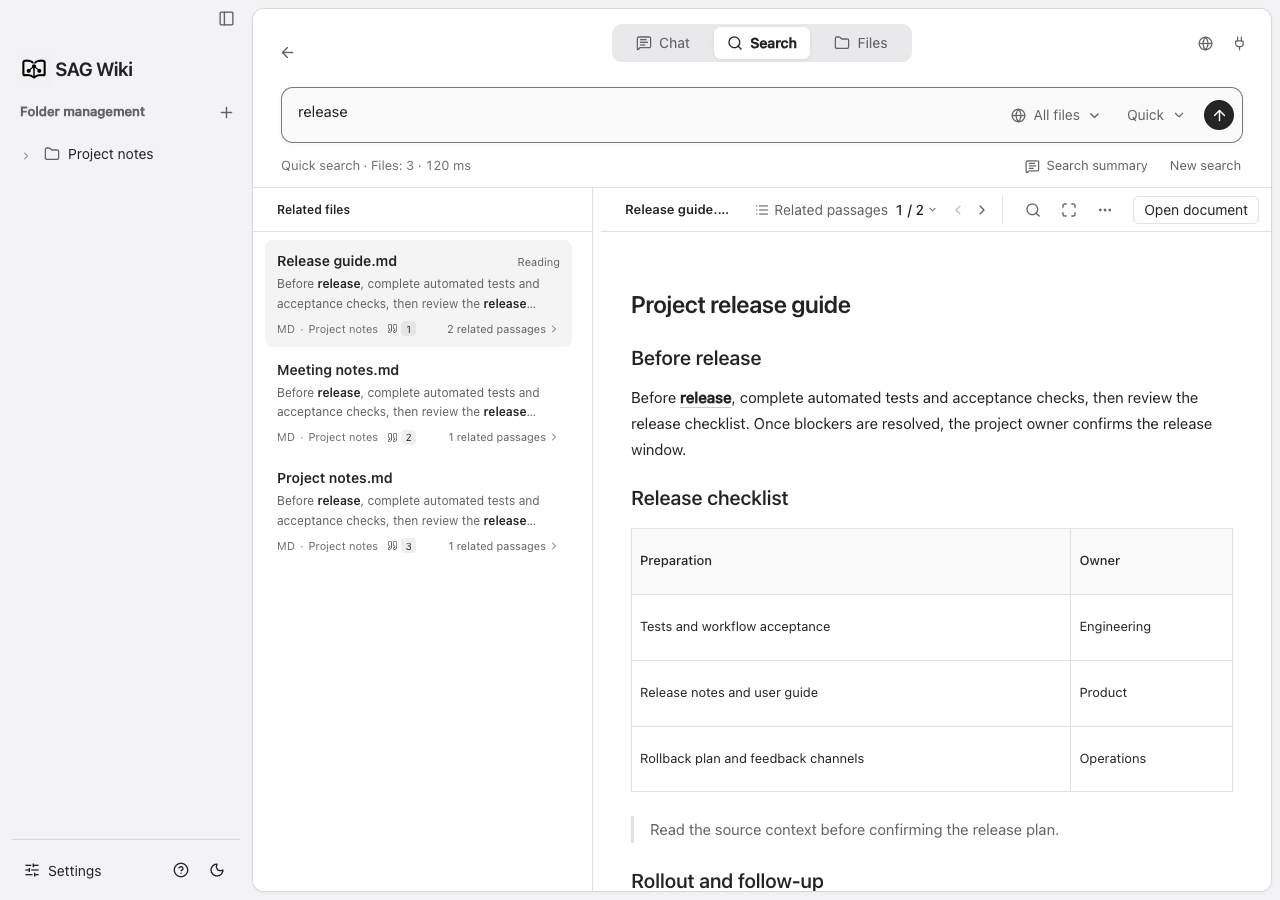
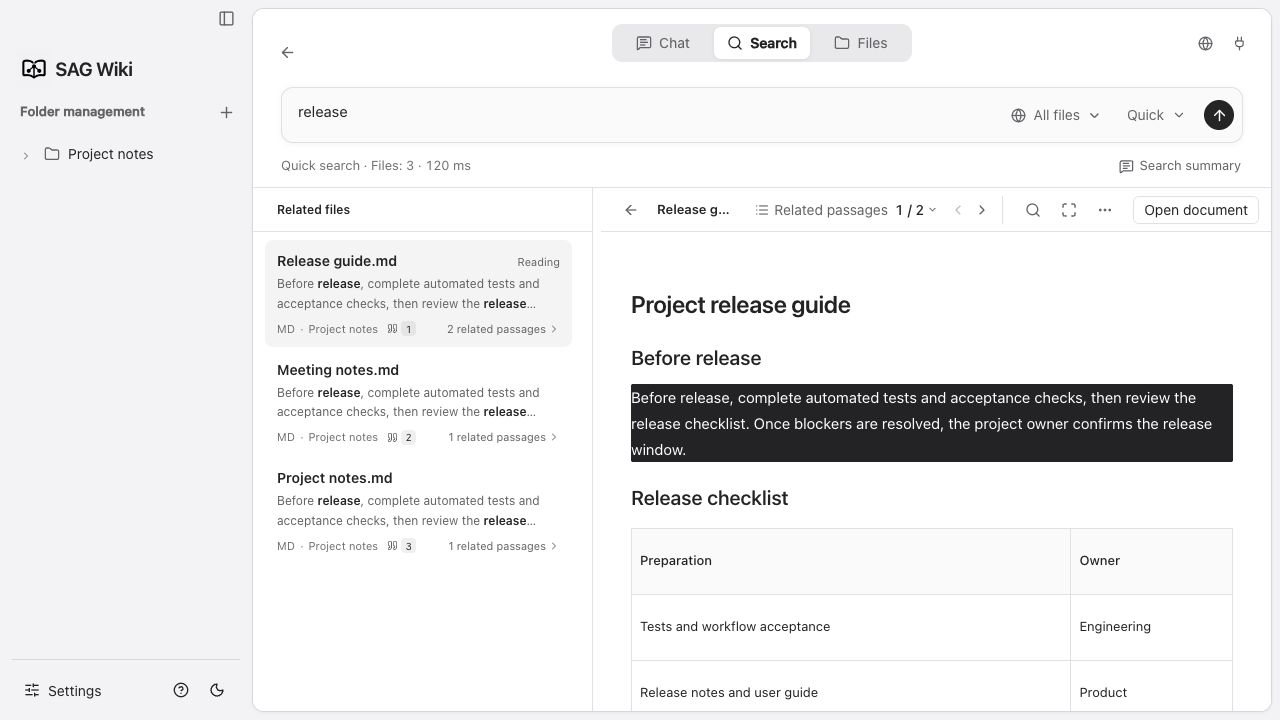
Improve search summaries, highlights and periodic update checks
(cherry picked from commit cfd964785a4ece03ea74da3f2a4949b443de70a7)

diff --git a/src/App.svelte b/src/App.svelte
@@ -368,6 +368,7 @@ let previewDocument:Document|null=null,previewInitialMatch=0,previewLoading=fals
  async function stopSummary(){const id=summaryJob;summaryJob='';summaryBusy=false;if(id)await api('cancel_query',{id});}
  async function summarizeSearch(question:string,candidates:Candidate[]){
   if(settings?.search_summary_enabled===false||!candidates.length||!answerReady)return;
+  summarySelected=true;lastSearchFocus=candidates[0];
   const id=crypto.randomUUID();summaryJob=id;summaryBusy=true;summaryError='';summaryText='';summaryEvidence=documentResults(candidates).slice(0,settings?.search_summary_sources??10).map(group=>group.first);
   try{const output=await api<{text:string;evidence:Candidate[]}>('summarize_search',{id,question,results:summaryEvidence});if(summaryJob===id){summaryText=output.text;summaryEvidence=output.evidence}}
   catch(e){if(summaryJob===id)summaryError=$t(String(e))}
@@ -454,7 +455,7 @@ let previewDocument:Document|null=null,previewInitialMatch=0,previewLoading=fals
    const output=await api<QueryOutput>('run_query',{query:{id,kind,question,scope,references:kind==='ask'?references:[],model:settings.answer.model,conversation_id:kind==='ask'?conversationId:null,replace_from:replaceFrom??null,page:kind==='search'?(page??1):null}});
    if((kind==='ask'?askJob:searchJob)!==id)return;
    if(kind==='ask'){conversation=output.conversation;pending=null;references=[];await history()}
-   else{searchTerms=output.terms||[];results=output.results;searchRanked=kind==='deep_search';searchElapsed=output.elapsed_ms??null;searchPagination=kind==='deep_search'?{total:documentResults(output.results).length,page:1,page_size:20}:output.pagination??null;searchPage=searchPagination?.page??1;await tick();if(searchList)searchList.scrollTop=0;if(page===undefined){activeResult=0;passagesOpen=false}const kept=results.find(c=>c.path===focus?.path);if(kept)void focusResult(kept,true);else if(results.length)void focusResult(results[0]);else{focus=null;previewRequest++}if(page===undefined)void summarizeSearch(question,output.results);}
+   else{searchTerms=output.terms||[];results=output.results;searchRanked=kind==='deep_search';searchElapsed=output.elapsed_ms??null;searchPagination=kind==='deep_search'?{total:documentResults(output.results).length,page:1,page_size:20}:output.pagination??null;searchPage=searchPagination?.page??1;await tick();if(searchList)searchList.scrollTop=0;if(page===undefined){activeResult=0;passagesOpen=false;void summarizeSearch(question,output.results)}if(page!==undefined||!summarySelected){const kept=results.find(c=>c.path===focus?.path);if(kept)void focusResult(kept,true);else if(results.length)void focusResult(results[0]);else{focus=null;previewRequest++}}}
   }catch(e){
    if((kind==='ask'?askJob:searchJob)===id){
     if(kind==='ask'){error=$t(String(e));if(pending)pending={...pending,status:'failed',error};await history()}
@@ -465,7 +466,7 @@ let previewDocument:Document|null=null,previewInitialMatch=0,previewLoading=fals
    else if(searchJob===id){searchBusy=false;paging=false;searchPage=searchPagination?.page??1;searchStage='';searchJob=''}
   }
  }
-// Search results prioritize source reading; the summary is an explicit secondary view.
+// New searches open the automatic summary; selecting a result opens its source.
  let activeResult=0,resultsFocused=false,passagesOpen=false,passageReturn:HTMLElement|null=null;
  let searchFocusMode=false,summarySelected=false,lastSearchFocus:Candidate|null=null;
  let previewFindOpen=false,previewFindDraft='',previewFindTerm='',previewFindInput:HTMLInputElement;
@@ -606,7 +607,7 @@ let previewDocument:Document|null=null,previewInitialMatch=0,previewLoading=fals
  <div class="composer-wrap"><Popover.Root bind:open={mention}><Popover.Portal to=".real-client"><Popover.Content class="mention-picker" customAnchor={composer} collisionBoundary={workspaceContent} side={mentionSide} sideOffset={6} collisionPadding={8} align="start" trapFocus={false} onOpenAutoFocus={event=>event.preventDefault()} onCloseAutoFocus={event=>event.preventDefault()}><div class="mention-heading">{$t("@ 引用文件")}</div>{#if !files.length}<div class="mention-empty" aria-live="polite">{@html icon('folder')}<strong>{$t('知识库还没有可引用的文件')}</strong><p>{$t('添加文件夹并完成索引后，就可以用 @ 选择要引用的文件。')}</p><Button.Root type="button" class="outline mention-add-folder" onclick={()=>{mention=false;add()}}>{@html icon('plus')}{$t('添加文件夹')}</Button.Root></div>{:else if !mentions.length}<div class="mention-empty" aria-live="polite">{@html icon('search')}<strong>{$t('没有匹配的文件')}</strong><p>{$t('试试其他文件名或路径关键词。')}</p></div>{:else}<div class="mention-options" role="listbox" aria-label={$t("引用文件")}>{#each mentions as f,i}<Button.Root role="option" aria-selected={i===mentionIndex} onmousedown={(event:MouseEvent)=>{event.preventDefault();(()=>reference(f.path))();}}>{@html icon('file')}<span><strong>{f.name}</strong><small>{displayPath(f.path)}</small></span></Button.Root>{/each}</div><div class="mention-help">{$t("↑ ↓ 选择 · Enter 引用 · Esc 关闭")}</div>{/if}</Popover.Content></Popover.Portal></Popover.Root><form class="composer" class:busy bind:this={composer} use:mentionPlacement on:submit|preventDefault={()=>run('ask')}><div class="reference-chips">{#each references as path}<span class="reference-chip">{@html icon('file')}<span>{basename(path)}</span><Button.Root type="button" aria-label={$t("移除引用 {value0}",{value0:basename(path)})} onclick={()=>references=references.filter(p=>p!==path)}>{@html icon('close')}</Button.Root></span>{/each}</div><Textarea aria-label={$t("向你的文件提问")} bind:ref={askInput} bind:value={ask} oninput={mentionUpdate} onkeydown={askKey} onkeyup={compositionKeyUp} oncompositionstart={compositionStart} oncompositionend={compositionEnd} placeholder={busy?$t("回答生成中，可以先输入下一个问题…"):$t("向你的文件提问，输入 @ 引用文件…")}/><div class="composer-bottom"><div class="composer-options"><Button.Root class="scope-button" type="button" aria-haspopup="dialog" aria-expanded={scopeOpen} onclick={scopeShow}>{@html icon(scope.length?'folder':'globe')}<span>{scopeLabel}</span>{@html icon('down')}</Button.Root></div><div class="composer-model-controls">{#if settings}<ContextUsage context={busy?pending?.context:conversation?.messages.at(-1)?.context} limit={settings.answer_context_tokens??65536} loading={busy&&!pending?.context}/><ReasoningControl model={settings.answer.model} models={settings.answer.models} onModelChange={model=>{if(settings)settings={...settings,answer:{...settings.answer,model}}}} endpoint={settings.answer.url} value={settings.model_profiles?.[settings.answer.model]?.reasoning_effort} disabled={busy} onChange={setReasoning} onCommit={saveReasoning}/>{/if}{#if busy}<Button.Root type="button" class="send" aria-label={$t("停止生成")} onclick={()=>stop()}>{@html icon('stop')}</Button.Root>{:else}<Button.Root class="send" aria-label={$t("发送问题")} disabled={!ask.trim()}>{@html icon('arrow')}</Button.Root>{/if}</div></div></form></div>{#if !shownMessages.length&&!pending&&conversations.length}<section class="recent-conversations" aria-label={$t("会话列表")}><div class="recent-heading"><span>{$t("会话列表")}</span><Button.Root class="icon-button" title={$t("搜索会话")} aria-label={$t("搜索会话")} onclick={()=>historySearchOpen=true}>{@html icon('search')}</Button.Root></div><div class="recent-list">{#each conversations as c(c.id)}<div class="history-row" class:active={view==='ask'&&conversation?.id===c.id}><Button.Root class="conversation-item" title={c.title} onclick={()=>chooseHistory(c)}>{@html icon('chat')}<span>{c.title}</span></Button.Root><Timestamp value={c.updated}/><Button.Root class="history-more" aria-label={$t("{value0} 的选项",{value0:c.title})} onclick={(e:MouseEvent)=>chatMenu(e,c)}>{@html icon('more')}</Button.Root></div>{:else}<p class="history-empty">{$t("还没有问答记录")}</p>{/each}</div></section>{/if}</section></div>
  {:else if view==='search'}<section class="search-page" class:has-results={searched} aria-busy={busy}>{#if !searched}<div class="welcome search-welcome"><div class="welcome-mark" aria-hidden="true">{@html icon('search')}</div><h1>{$t("搜索你的文件")}</h1><p>{$t("查找文件内容，随时查看原文。")}</p></div>{/if}<div class="search-query-row"><form class="search-composer" class:compact={searched} on:submit|preventDefault={()=>run(searchMode)}><div class="search-entry"><Input aria-label={$t("搜索关键词")} bind:ref={searchInput} bind:value={search} onkeydown={searchKey} onkeyup={compositionKeyUp} oncompositionstart={compositionStart} oncompositionend={compositionEnd} placeholder={$t("输入关键词或问题，搜索你的文件…")}/></div><div class="search-composer-bottom"><Button.Root class="scope-button" type="button" aria-haspopup="dialog" aria-expanded={scopeOpen} onclick={scopeShow}>{@html icon(scope.length?'folder':'globe')}<span>{scopeLabel}</span>{@html icon('down')}</Button.Root><div class="search-composer-actions"><Select class="search-mode" label={$t("搜索模式")} value={searchMode} onValueChange={changeSearchMode} disabled={busy} items={[{value:"deep_search",label:jevReady?$t("深入"):$t("深入（需配置 Jev）")},{value:"search",label:$t("快速")}]}/>{#if busy}<Button.Root type="button" class="send" aria-label={$t("停止搜索")} onclick={()=>stop()}>{@html icon('stop')}</Button.Root>{:else}<Button.Root class="send" aria-label={$t("搜索文件")} disabled={!search.trim()}>{@html icon('arrow')}</Button.Root>{/if}</div></div></form></div>
  {#if !searched&&searchHistory.length}<section class="search-history" aria-label={$t("最近搜索")}><div class="search-history-heading"><span>{$t("最近搜索")}</span><Button.Root class="icon-button" aria-label={$t("清空搜索历史")} title={$t("清空搜索历史")} onclick={clearSearchHistory}>{@html icon('delete')}</Button.Root></div><div class="search-history-items">{#each searchHistory as question}<Button.Root class="search-history-item" title={question} onclick={()=>{search=question;void run(searchMode)}}>{@html icon('search')}<span>{question}</span></Button.Root>{/each}</div></section>{/if}{#if searched}
- <div class="search-options-row"><div class="search-summary"><span aria-live="polite">{searchStopped?$t("已停止搜索 · "):''}{busy&&!paging?$t(searchJobKind==='deep_search'?"深入搜索中":"快速搜索中"):`${searchRanked?$t("深入搜索"):$t("快速搜索")} · ${$t("{value0} 个文件",{value0:searchPagination?.total??groups.length})}`}{#if searchElapsed!==null&&!(busy&&!paging)}{' · '}{searchElapsed<1000?`${searchElapsed} ms`:$t("{value0} 秒",{value0:(searchElapsed/1000).toFixed(1)})}{/if}</span></div><div class="search-options-actions">{#if showSummary}<Button.Root class="search-summary-toggle" aria-label={$t('搜索总结')} aria-pressed={summarySelected} onclick={toggleSearchSummary}>{@html icon('chat')}<span>{$t('搜索总结')}</span>{#if summaryBusy}<span class="summary-running" aria-hidden="true"></span>{/if}</Button.Root>{/if}<Button.Root class="search-new-query" onclick={()=>resetSearch().catch(e=>notify($t(String(e))))}>{$t('重新搜索')}</Button.Root></div></div>
+ <div class="search-options-row"><div class="search-summary"><span aria-live="polite">{searchStopped?$t("已停止搜索 · "):''}{busy&&!paging?$t(searchJobKind==='deep_search'?"深入搜索中":"快速搜索中"):`${searchRanked?$t("深入搜索"):$t("快速搜索")} · ${$t("{value0} 个文件",{value0:searchPagination?.total??groups.length})}`}{#if searchElapsed!==null&&!(busy&&!paging)}{' · '}{searchElapsed<1000?`${searchElapsed} ms`:$t("{value0} 秒",{value0:(searchElapsed/1000).toFixed(1)})}{/if}</span></div><div class="search-options-actions">{#if showSummary}<Button.Root class="search-summary-toggle" aria-label={$t('搜索总结')} aria-pressed={summarySelected} onclick={toggleSearchSummary}>{@html icon('chat')}<span>{$t('搜索总结')}</span>{#if summaryBusy}<span class="summary-running" aria-hidden="true"></span>{/if}</Button.Root>{/if}</div></div>
  {#if searchError}<p class="form-error" role="alert">{$t(searchError)}{#if searchError===$t("请在设置中填写 Jev API 密钥")}<Button.Root class="settings-error-link" onclick={()=>{settingsPage="jev";settingsOpen=true}}>{$t("前往设置")}</Button.Root>{/if}</p>{/if}{#if busy&&!paging}
  <div class="search-loading" role="status" aria-live="polite" aria-atomic="true"><div class="search-skeleton" aria-hidden="true">{#each [0,1,2,3] as row}<span style={`--row:${row}`}></span>{/each}</div><strong>{searchStageText}</strong></div>
  {:else if groups.length}
@@ -620,7 +621,7 @@ let previewDocument:Document|null=null,previewInitialMatch=0,previewLoading=fals
   <article class="search-preview" class:showing-summary={!focus} class:search-finding={previewFindOpen}>
    {#if focus}
     <div class="search-preview-head">
-     <Button.Root class="icon-button search-preview-back list-only" aria-label={$t("返回结果列表")} onclick={leaveSearchReader}>{@html icon('back')}</Button.Root>
+     <Button.Root class={`icon-button search-preview-back${showSummary?'':' list-only'}`} aria-label={$t(showSummary?"返回搜索总结":"返回结果列表")} title={$t(showSummary?"返回搜索总结":"返回结果列表")} onclick={showSummary?toggleSearchSummary:leaveSearchReader}>{@html icon('back')}</Button.Root>
      <div class="search-preview-title"><strong title={sourceName(focus)}>{sourceName(focus)}</strong><span class="source-path" title={displayPath(indexedSourcePath(focus.path))}>{sourceFolder(focus.path,roots)}</span></div>
      <div class="search-preview-actions">
       <div class="search-passage-nav" role="group" aria-label={$t('相关片段')}>
@@ -638,7 +639,7 @@ let previewDocument:Document|null=null,previewInitialMatch=0,previewLoading=fals
     {#if previewError}<p class="small muted search-preview-note" role="status">{previewError}</p>{/if}
     {#if previewLoading}<div class="search-preview-loading" role="status"><span class="search-skeleton" aria-hidden="true">{#each [0,1,2] as row}<span style={`--row:${row}`}></span>{/each}</span><span class="sr-only">{$t("正在读取文件…")}</span></div>{:else if previewDocument}
      {#key `${previewRequest}:${previewFindTerm}`}
-      {#if isHtml(focus.path)}<HtmlDocument body={previewDocument.body} terms={readerTerms} initialMatch={previewFindTerm?0:previewInitialMatch} showNavigation={previewFindOpen} memoryKey={readerMemoryKey} restoreScroll={restorePreview}/>
+      {#if isHtml(focus.path)}<HtmlDocument paragraphHighlight body={previewDocument.body} terms={readerTerms} initialMatch={previewFindTerm?0:previewInitialMatch} showNavigation={previewFindOpen} memoryKey={readerMemoryKey} restoreScroll={restorePreview}/>
       {:else if previewReader?.doc===previewDocument}<svelte:component this={previewReader.Reader} model={previewReader.model} terms={readerTerms} target={previewFindTerm?0:previewReader.target} path={displayPath(focus.path)} showNavigation={previewFindOpen} memoryKey={readerMemoryKey} restoreScroll={restorePreview}/>
       {:else}<HighlightedDocument html={preview} terms={readerTerms} path={displayPath(focus.path)} initialMatch={previewFindTerm?0:previewInitialMatch} showNavigation={previewFindOpen} memoryKey={readerMemoryKey} restoreScroll={restorePreview}/>{/if}
      {/key}

diff --git a/src/styles/search.css b/src/styles/search.css
@@ -10,14 +10,14 @@
 .real-client .search-composer.compact .search-entry input{padding:6px 0;font-size:var(--text-reading)}
 .real-client .search-composer.compact .search-composer-bottom{flex-shrink:0;gap:10px}
 .real-client .search-composer.compact .send{width:30px;height:30px}
-/* Status on the left, the two page-level actions on the right: one line between the input and the columns. */
+/* Status on the left, the summary action on the right: one line between the input and the columns. */
 .search-options-row{display:flex;align-items:center;justify-content:space-between;gap:16px;flex-shrink:0;min-height:44px;margin:0}
 .has-results .search-options-row{padding:4px 20px 2px 28px}
 .real-client .search-summary{display:flex;align-items:center;min-width:0;margin:0;padding:0;border:0;color:var(--color-muted);font-size:var(--text-caption);font-variant-numeric:tabular-nums}
 .search-summary span{overflow:hidden;white-space:nowrap;text-overflow:ellipsis}
 .search-options-actions{display:flex;align-items:center;gap:2px;flex-shrink:0}
-.real-client .search-summary-toggle,.real-client .search-new-query{display:inline-flex;align-items:center;gap:6px;height:30px;min-height:30px;padding:0 10px;border-radius:7px;background:transparent;color:var(--color-secondary);font-size:var(--text-caption);white-space:nowrap}
-.real-client .search-summary-toggle:hover,.real-client .search-new-query:hover{background:var(--color-hover);color:var(--color-ink)}
+.real-client .search-summary-toggle{display:inline-flex;align-items:center;gap:6px;height:30px;min-height:30px;padding:0 10px;border-radius:7px;background:transparent;color:var(--color-secondary);font-size:var(--text-caption);white-space:nowrap}
+.real-client .search-summary-toggle:hover{background:var(--color-hover);color:var(--color-ink)}
 .search-summary-toggle .icon{width:15px;height:15px}
 .real-client .search-summary-toggle[aria-pressed=true]{background:var(--color-selected);color:var(--color-ink)}
 .summary-running{width:5px;height:5px;border-radius:50%;background:var(--color-secondary);animation:summary-pulse 1.2s ease-in-out infinite}
@@ -68,9 +68,10 @@
 .real-client .search-preview .search-preview-body img{max-width:100%;height:auto}
 .real-client .search-results .search-hit{background:transparent;color:var(--color-ink);font-weight:600;box-shadow:none;padding:0}
 .real-client .search-preview .search-hit{background:transparent;color:inherit;box-shadow:none;border-radius:2px;padding:0}
-.real-client .search-preview .search-hit.active{font-weight:550;text-decoration:underline;text-decoration-color:color-mix(in srgb,var(--color-ink) 24%,transparent);text-underline-offset:4px}
 .real-client .search-preview.search-finding .search-hit{background:color-mix(in srgb,var(--color-ink) 8%,transparent);box-decoration-break:clone;-webkit-box-decoration-break:clone}
-.real-client .search-preview.search-finding .search-hit.active{background:color-mix(in srgb,var(--color-ink) 16%,transparent)}
+.real-client .search-preview .search-active-paragraph{background:var(--color-ink);color:var(--color-paper);border-radius:2px}
+.real-client .search-preview .search-active-paragraph *{color:inherit}
+.real-client .search-preview .search-active-paragraph :is(.search-hit,code){background:transparent;color:inherit;box-shadow:none;text-decoration:none}
 /* The passage picker drops down from its control in the header. */
 .search-preview>.search-passage-picker{top:48px;right:12px;width:min(460px,calc(100% - 24px));max-height:min(520px,calc(100% - 64px))}
 .search-summary-back{display:flex;align-items:center;gap:10px;height:44px;padding:0 16px;border-bottom:1px solid var(--color-rule);font-size:13px}

diff --git a/tests/app-updates.test.ts b/tests/app-updates.test.ts
@@ -19,7 +19,7 @@ const click=(text:string)=>{
  expect(button, text).toBeDefined();button!.click();
 };
 beforeEach(()=>{setLanguage('zh-CN');updateDownload.set({key:'',version:'',stage:'idle',downloaded:0,total:null,error:''});updateState.set({key:'',checking:false,info:null,error:''});invoke.mockReset();invoke.mockResolvedValue(latest)});
-afterEach(async()=>{for(const app of apps.splice(0))await unmount(app);document.body.innerHTML=''});
+afterEach(async()=>{for(const app of apps.splice(0))await unmount(app);vi.useRealTimers();document.body.innerHTML=''});
 
 it('checks at startup, shows a new-version prompt and opens About on click',async()=>{
  const onOpen=vi.fn();
@@ -29,6 +29,35 @@ it('checks at startup, shows a new-version prompt and opens About on click',asyn
  document.querySelector<HTMLButtonElement>('.update-open')!.click();await tick();
  expect(onOpen).toHaveBeenCalledOnce();
  expect(document.querySelector('.update-notification')).toBeNull();
+});
+
+it('checks every eight hours while mounted and stops checking after unmount',async()=>{
+ vi.useFakeTimers({toFake:['setInterval','clearInterval']});
+ const interval=8*60*60*1000;
+ apps.push(mount(UpdateNotification,{target:document.body,props:{config:{...defaultUpdateSettings},onOpen:vi.fn()}}));
+ await tick();expect(invoke).toHaveBeenCalledOnce();
+ await vi.advanceTimersByTimeAsync(interval-1);
+ expect(invoke).toHaveBeenCalledOnce();
+ await vi.advanceTimersByTimeAsync(1);
+ expect(invoke).toHaveBeenCalledTimes(2);
+ await vi.advanceTimersByTimeAsync(interval);
+ expect(invoke).toHaveBeenCalledTimes(3);
+ await unmount(apps.pop()!);
+ await vi.advanceTimersByTimeAsync(interval);
+ expect(invoke).toHaveBeenCalledTimes(3);
+});
+
+it('skips scheduled checks while a request is pending and retries on a later interval',async()=>{
+ vi.useFakeTimers({toFake:['setInterval','clearInterval']});
+ let resolve!:(info:UpdateInfo)=>void;
+ invoke.mockImplementationOnce(()=>new Promise<UpdateInfo>(done=>resolve=done));
+ apps.push(mount(UpdateNotification,{target:document.body,props:{config:{...defaultUpdateSettings},onOpen:vi.fn()}}));
+ await tick();expect(invoke).toHaveBeenCalledOnce();
+ await vi.advanceTimersByTimeAsync(8*60*60*1000);
+ expect(invoke).toHaveBeenCalledOnce();
+ resolve(latest);await tick();
+ await vi.advanceTimersByTimeAsync(8*60*60*1000);
+ expect(invoke).toHaveBeenCalledTimes(2);
 });
 
 it('downloads in app, keeps progress across settings navigation, and only installs on request',async()=>{

diff --git a/src/components/HtmlDocument.svelte b/src/components/HtmlDocument.svelte
@@ -6,6 +6,7 @@
  import {readReaderScroll,rememberReaderScroll} from '../lib/reader-scroll';
  export let body='';export let terms:string[]=[];export let initialMatch=0;
  export let showNavigation=true;export let memoryKey='';export let restoreScroll=false;
+ export let paragraphHighlight=false;
  let html='',count=0,index=0,ready=false,frame:HTMLIFrameElement;
  const positionKey=memoryKey;
  let saved=restoreScroll?readReaderScroll(positionKey):undefined;
@@ -22,6 +23,7 @@
   count=highlightDocument(doc,terms);ready=false;
   const style=doc.createElement('style');
   style.textContent=`mark.search-hit{background:rgba(80,80,80,.1)!important;color:inherit!important;border-radius:2px}mark.search-hit.active{background:rgba(80,80,80,.2)!important;box-shadow:0 1px 0 rgba(80,80,80,.35)}tspan.search-hit{stroke:rgba(80,80,80,.1)!important;stroke-width:4px!important;paint-order:stroke fill}tspan.search-hit.active{stroke:rgba(80,80,80,.2)!important}
+   .search-active-paragraph{background:#202020!important;color:#fff!important;border-radius:2px}.search-active-paragraph *{color:inherit!important}.search-active-paragraph :is(mark.search-hit,code){background:transparent!important;box-shadow:none}
    *{scrollbar-width:thin;scrollbar-color:transparent transparent}html.sag-scroll-active,html.sag-scroll-active *{scrollbar-color:rgba(100,100,100,.4) transparent}::-webkit-scrollbar{width:6px;height:6px}::-webkit-scrollbar-track{background:transparent}::-webkit-scrollbar-thumb{background:transparent;border-radius:6px}html.sag-scroll-active::-webkit-scrollbar-thumb,html.sag-scroll-active ::-webkit-scrollbar-thumb{background:rgba(100,100,100,.4)}`;
   doc.head.append(style);
   html='<!DOCTYPE html>'+doc.documentElement.outerHTML;
@@ -41,7 +43,7 @@
  }
  function selectMatch(next:number,scroll=true){
   index=count?(next+count)%count:0;
-  frame.contentWindow!.postMessage({type:'sag-select-match',index,scroll},'*');
+  frame.contentWindow!.postMessage({type:'sag-select-match',index,scroll,paragraph:paragraphHighlight},'*');
  }
 </script>
 

diff --git a/src/components/HighlightedDocument.svelte b/src/components/HighlightedDocument.svelte
@@ -1,5 +1,5 @@
 <script lang="ts">
- import{onDestroy,tick}from 'svelte';import{highlightedHtml}from '../lib/search-highlights';import MatchNavigation from './MatchNavigation.svelte';
+ import{onDestroy,tick}from 'svelte';import{highlightedHtml,selectSearchMatches}from '../lib/search-highlights';import MatchNavigation from './MatchNavigation.svelte';
  import {quietScroll} from '../lib/quiet-scroll';
  import {readReaderScroll,rememberReaderScroll} from '../lib/reader-scroll';
  export let html='';export let terms:string[]=[];export let path='';export let initialMatch=0;
@@ -10,16 +10,15 @@
  $:highlighted=highlightedHtml(html,terms);
  $:if(highlighted){index=0;void showDocument(highlighted);}
  async function showDocument(content:{html:string;count:number}){
-  await tick();if(content!==highlighted)return;
+  await tick();if(content!==highlighted||!host)return;
   selectMatch(Math.min(initialMatch,Math.max(0,highlighted.count-1)),!saved);
   if(saved){host.scrollTop=saved.top;host.scrollLeft=saved.left;saved=undefined}
   if(path&&host.querySelector('img[data-source]')){const {hydrateImages}=await import('../lib/markdown');await hydrateImages(host,path);}
  }
  function selectMatch(next:number,scroll=true){
   if(!highlighted.count)return;index=(next+highlighted.count)%highlighted.count;
-  host.querySelectorAll('.search-hit.active').forEach(mark=>mark.classList.remove('active'));
-  const marks=host.querySelectorAll<HTMLElement>(`[data-search-match="${index}"]`);
-  marks.forEach(mark=>mark.classList.add('active'));if(scroll)marks[0]?.scrollIntoView({block:'center'});
+  const marks=[...host.querySelectorAll<HTMLElement>(`[data-search-match="${index}"]`)];
+  selectSearchMatches(host,marks);if(scroll)marks[0]?.scrollIntoView({block:'center'});
  }
  function remember(){if(host)rememberReaderScroll(positionKey,{top:host.scrollTop,left:host.scrollLeft})}
  onDestroy(remember);

diff --git a/tests/markdown-reader.test.ts b/tests/markdown-reader.test.ts
@@ -81,6 +81,23 @@ it('搜索正文可以隐藏命中导航，同时保留目标高亮',async()=>{
  expect(document.querySelector('.match-navigation')).toBeNull();
 });
 
+it('匹配选中完整段落，跨段导航清除上一段，保留段内格式和其它段落',async()=>{
+ const model=markdownModel({path:'/paragraphs.md',body:'# 示例\n\n段首 needle **重点** 段尾 needle。\n\n下一段 needle。\n\n没有命中的段落。',hash:'paragraphs'});
+ await open({model,terms:['needle']});
+ await vi.waitFor(()=>expect(label()).toBe('1 / 3 处匹配'));
+ const paragraphs=[...document.querySelectorAll('.reader-piece p')];
+ expect(paragraphs[0].classList.contains('search-active-paragraph')).toBe(true);
+ expect(paragraphs[0].textContent).toBe('段首 needle 重点 段尾 needle。');
+ expect(paragraphs[0].querySelector('strong')?.textContent).toBe('重点');
+ document.querySelector<HTMLButtonElement>('.match-next')!.click();await tick();
+ expect(document.querySelectorAll('.search-active-paragraph')).toHaveLength(1);
+ expect(paragraphs[0].classList.contains('search-active-paragraph')).toBe(true);
+ document.querySelector<HTMLButtonElement>('.match-next')!.click();await tick();
+ expect(paragraphs[0].classList.contains('search-active-paragraph')).toBe(false);
+ expect(paragraphs[1].classList.contains('search-active-paragraph')).toBe(true);
+ expect(paragraphs[2].classList.contains('search-active-paragraph')).toBe(false);
+});
+
 it('同文件返回恢复阅读块，后台匹配不抢位置；新片段优先新目标',async()=>{
  const tasks:(()=>void)[]=[];
  vi.stubGlobal('scheduler',{postTask:(task:()=>void)=>new Promise<void>(resolve=>tasks.push(()=>{task();resolve()}))});

diff --git a/tests/html-document.test.ts b/tests/html-document.test.ts
@@ -5,6 +5,19 @@ import {mount,tick,unmount} from 'svelte';
 import HtmlDocument from '../src/components/HtmlDocument.svelte';
 let app:ReturnType<typeof mount>|null=null;
 afterEach(async()=>{if(app)await unmount(app);app=null;document.body.innerHTML='';});
+it('搜索原文按完整段落选中，嵌套列表不会连带选中父项，切换时清除旧段落',async()=>{
+ app=mount(HtmlDocument,{target:document.body,props:{body:'<ul><li>父项<ul><li><p>段首 <strong>needle</strong> 段尾。</p></li></ul></li></ul><p>下一段 needle。</p>',terms:['needle'],paragraphHighlight:true}});
+ await tick();
+ const frame=document.querySelector('iframe')!;
+ const doc=new DOMParser().parseFromString(frame.getAttribute('srcdoc')!,'text/html');
+ loadDocumentBridge(frame,doc);await tick();
+ expect(doc.querySelectorAll('.search-active-paragraph')).toHaveLength(1);
+ expect(doc.querySelector('.search-active-paragraph')?.textContent).toBe('段首 needle 段尾。');
+ expect(doc.querySelector('li.search-active-paragraph')).toBeNull();
+ document.querySelector<HTMLButtonElement>('[aria-label="下一处匹配"]')!.click();await tick();
+ expect(doc.querySelectorAll('.search-active-paragraph')).toHaveLength(1);
+ expect(doc.querySelector('.search-active-paragraph')?.textContent).toBe('下一段 needle。');
+});
 it('保留 HTML 页面样式和 SVG 图形，高亮正文并切换匹配',async()=>{
  const body='<style>p{color:red}</style><p>早先 Token</p><h2>目标 Token</h2><svg><text x="10" y="20">Token</text></svg><script>Token()</script>';
  app=mount(HtmlDocument,{target:document.body,props:{body,terms:['Token'],initialMatch:1}});

diff --git a/src/lib/search-highlights.ts b/src/lib/search-highlights.ts
@@ -3,6 +3,15 @@ import {escaped,isHtml,isMarkdown} from './domain';
 import type {Candidate} from './types';
 export type TextMatch={from:number;to:number};
 const segmenter=new Intl.Segmenter(undefined,{granularity:'grapheme'});
+const textBlockSelector='p,li,pre,td,th,h1,h2,h3,h4,h5,h6,div,blockquote,text';
+export function selectSearchMatches(root:ParentNode,marks:HTMLElement[]){
+ root.querySelectorAll('.search-hit.active').forEach(mark=>mark.classList.remove('active'));
+ root.querySelectorAll('.search-active-paragraph').forEach(block=>block.classList.remove('search-active-paragraph'));
+ for(const mark of marks){
+  mark.classList.add('active');
+  mark.parentElement!.closest(textBlockSelector)?.classList.add('search-active-paragraph');
+ }
+}
 export function textMatches(text:string,terms:string[]):TextMatch[]{
  const words=[...new Set(terms.map(term=>term.normalize('NFKC').toLowerCase()).filter(Boolean))].sort((a,b)=>b.length-a.length);
  if(!words.length)return [];
@@ -96,7 +105,7 @@ function textBlocks(doc:Document):Text[][]{
  while(walker.nextNode()){
   const node=walker.currentNode as Text;
   if(node.parentElement!.closest('script,style,textarea,svg'))continue;
-  const block=node.parentElement!.closest('p,li,pre,td,th,h1,h2,h3,h4,h5,h6,div,blockquote,text')||doc.body;
+  const block=node.parentElement!.closest(textBlockSelector)||doc.body;
   const nodes=groups.get(block)||[];nodes.push(node);groups.set(block,nodes);
  }
  return [...groups.values()];

diff --git a/tests/search-history.test.ts b/tests/search-history.test.ts
@@ -23,12 +23,12 @@ async function search(question:string){
  input.closest('form')!.dispatchEvent(new Event('submit',{bubbles:true,cancelable:true}));
  await vi.waitFor(()=>expect(document.querySelector('.search-page')!.getAttribute('aria-busy')).toBe('false'));
 }
-async function back(){document.querySelector<HTMLButtonElement>('.search-options-row .search-new-query')!.click();await vi.waitFor(()=>expect(document.querySelector('.search-page.has-results')).toBeNull())}
+async function back(){document.querySelector<HTMLButtonElement>('[aria-label="返回搜索"]')!.click();await vi.waitFor(()=>expect(document.querySelector('.search-page.has-results')).toBeNull())}
 it('结果页返回时清空输入，并在输入框下显示最近搜索，点击可再次搜索',async()=>{
  await start();expect(document.querySelector('[aria-label="最近搜索"]')).toBeNull();
  await search('Token 路由器');
- expect(document.querySelector('.search-options-row .search-new-query')).not.toBeNull();
- expect(document.querySelector('.search-composer .search-new-query')).toBeNull();
+ expect(document.querySelector('[aria-label="返回搜索"]')).not.toBeNull();
+ expect(document.querySelector('.search-new-query')).toBeNull();
  await back();
  expect(document.querySelector<HTMLInputElement>('[aria-label="搜索关键词"]')!.value).toBe('');
  expect(document.activeElement).toBe(document.querySelector('[aria-label="搜索关键词"]'));

diff --git a/src/components/MarkdownReader.svelte b/src/components/MarkdownReader.svelte
@@ -1,7 +1,7 @@
 <script lang="ts">
  import {onDestroy,onMount} from 'svelte';
  import {hydrateImages} from '../lib/markdown';
- import {highlightDocument} from '../lib/search-highlights';
+ import {highlightDocument,selectSearchMatches} from '../lib/search-highlights';
  import {pieceHtml,pieceIndex,piecePrefixHtml,type MarkdownModel} from '../lib/document-model';
  import MatchNavigation from './MatchNavigation.svelte';
  import {quietScroll} from '../lib/quiet-scroll';
@@ -86,10 +86,9 @@
 
  function activate(next:{piece:number;local:number},scroll=true){
   if(destroyed)return;
-  host.querySelectorAll('.search-hit.active').forEach(mark=>mark.classList.remove('active'));
   current=next;
   const marks=[...hitsIn(next.piece)].filter(mark=>mark.dataset.searchMatch===String(next.local));
-  marks.forEach(mark=>mark.classList.add('active'));
+  selectSearchMatches(host,marks);
   if(scroll)marks[0]?.scrollIntoView({block:'center'});
   updatePosition();
  }

diff --git a/src/components/AppUpdates.svelte b/src/components/AppUpdates.svelte
@@ -23,7 +23,7 @@
 
 <section class="settings-group app-updates" aria-label={$t('软件更新')}>
  <div class="setting-row">
-  <div><strong>{$t('软件更新')}</strong><p>{$t('启动时自动检查，更新在后台下载，完成后可重启安装。')}</p></div>
+  <div><strong>{$t('软件更新')}</strong><p>{$t('启动时及运行期间每隔 8 小时检查，发现新版后可下载并重启安装。')}</p></div>
   <Button.Root type="button" class={state?.info?.available?'primary':'outline'} disabled={state?.checking||transferring||confirming} onclick={action}>{state?.checking?$t('正在检查更新…'):transfer?.stage==='installing'?$t('正在安装更新…'):transfer?.stage==='verifying'?$t('正在校验更新…'):transfer?.stage==='downloading'?$t('正在下载更新…'):transfer?.stage==='ready'?$t('重启并更新'):state?.info?.available?$t('下载更新'):$t('检查更新')}</Button.Root>
  </div>
  <div class="update-content">
